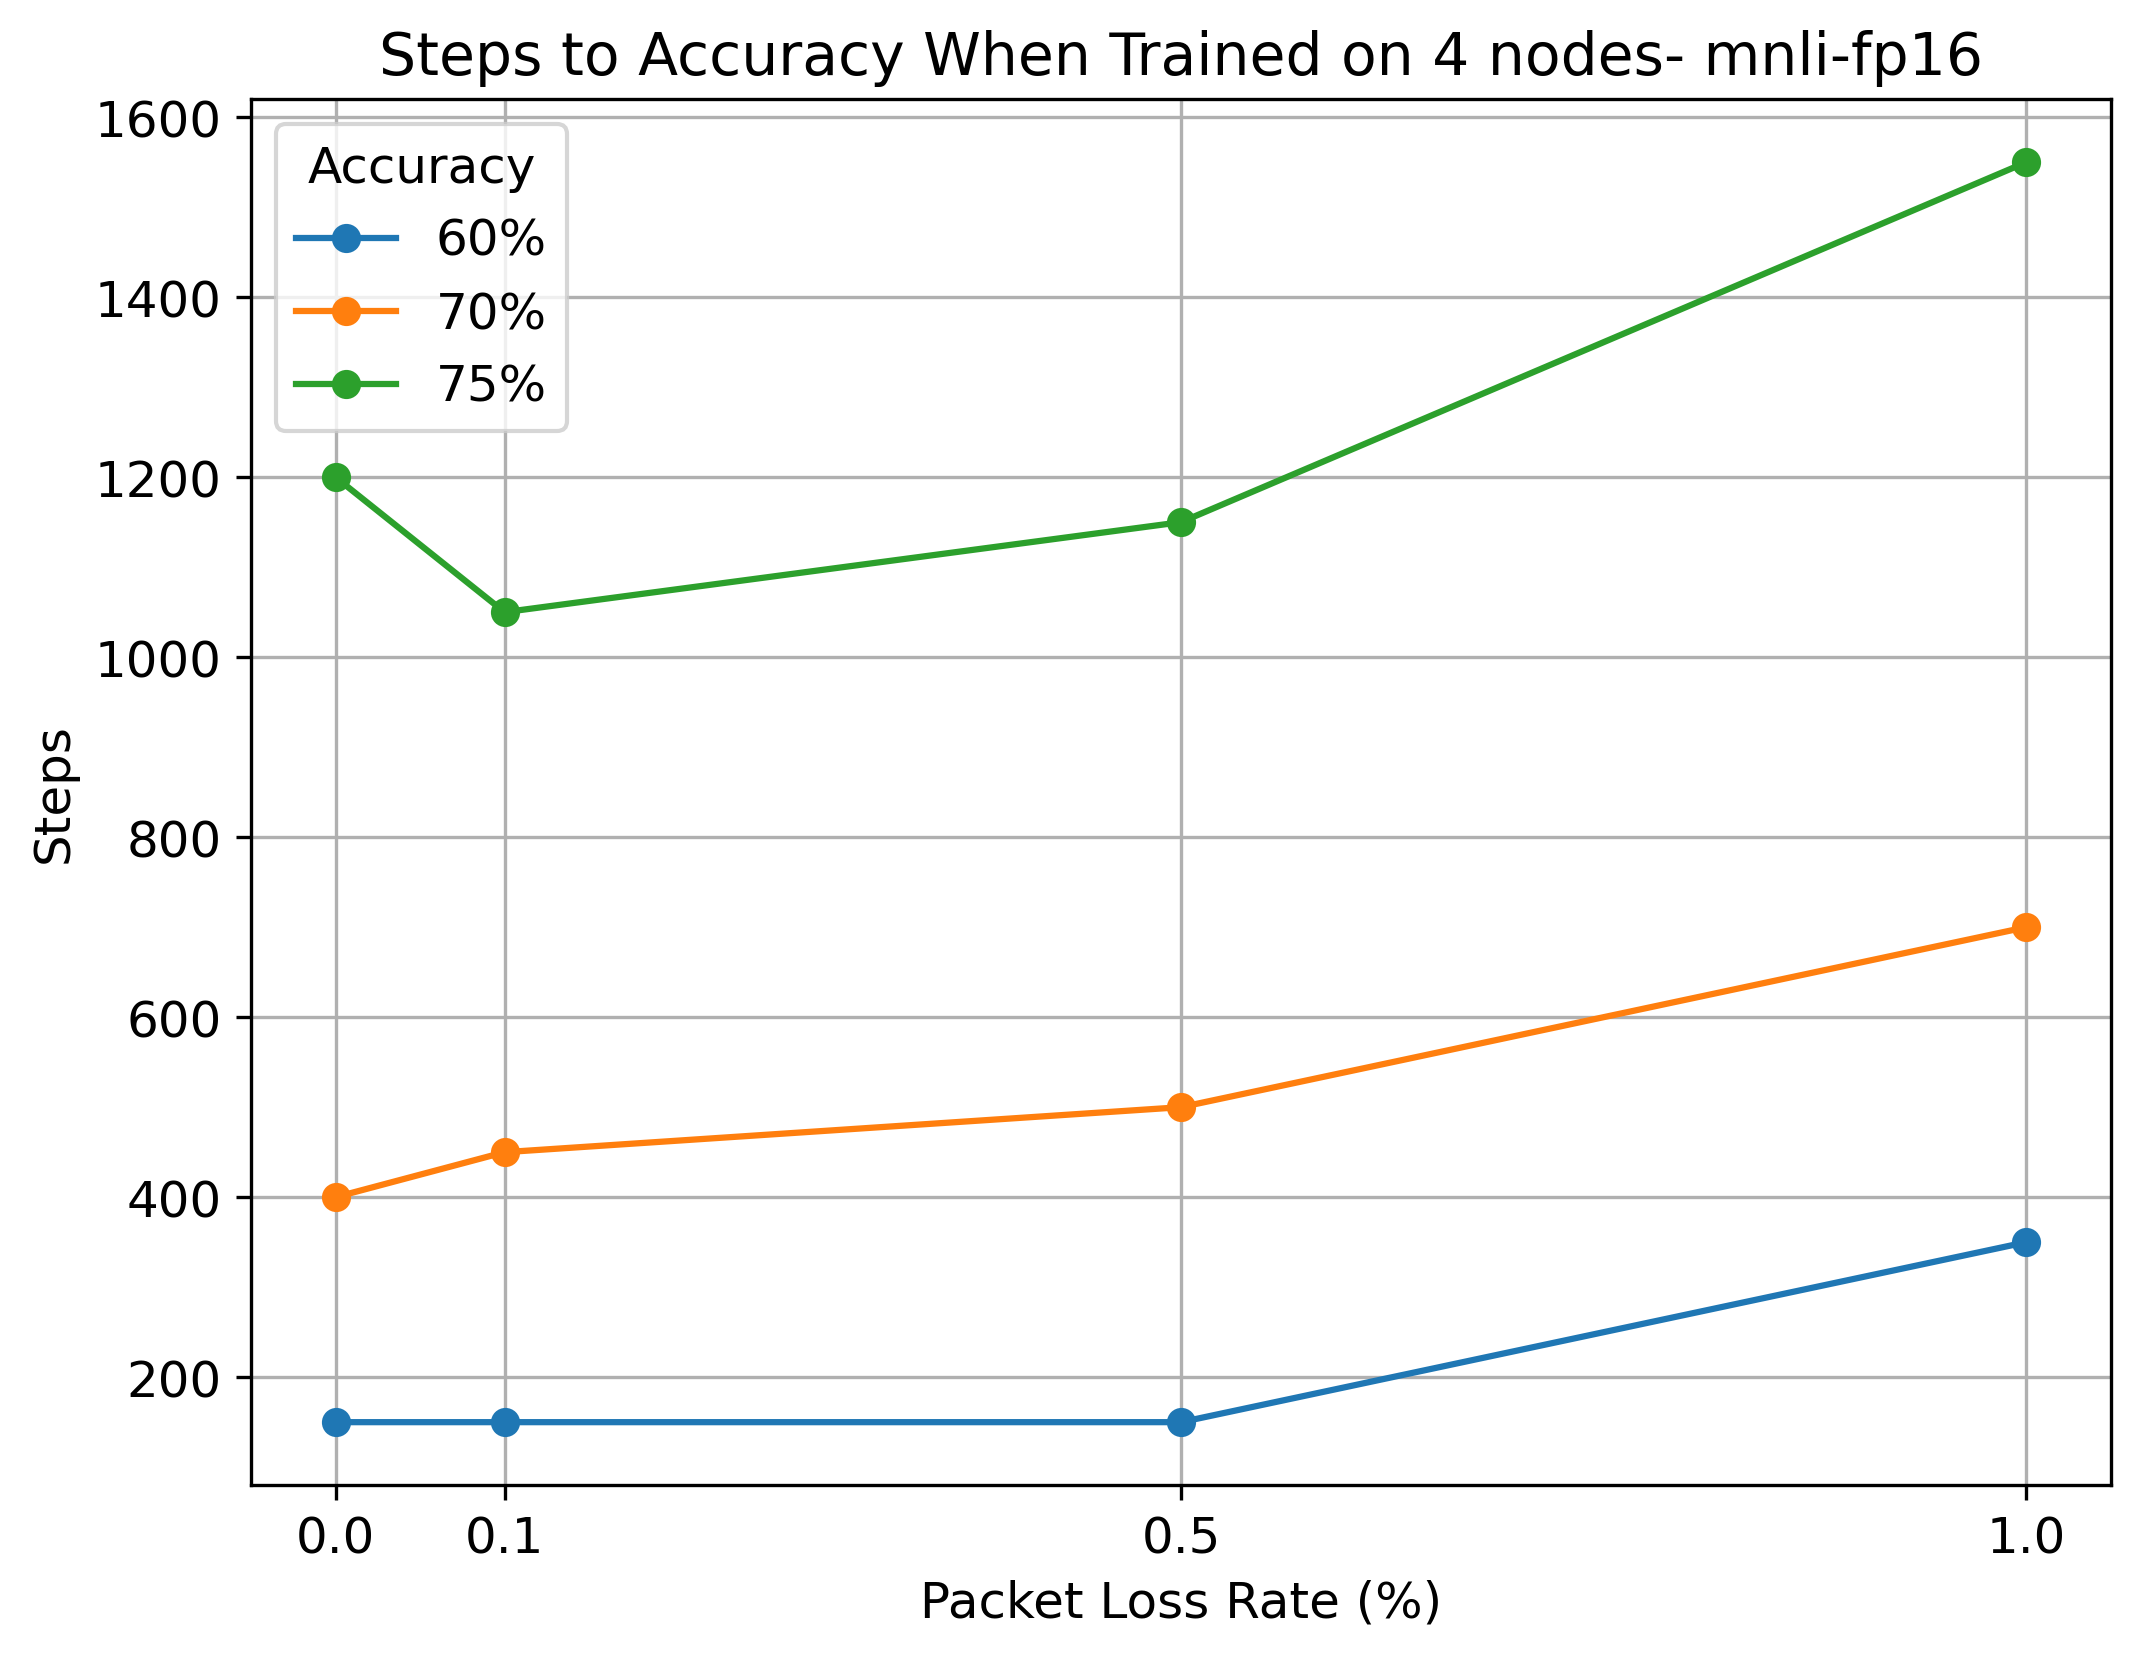
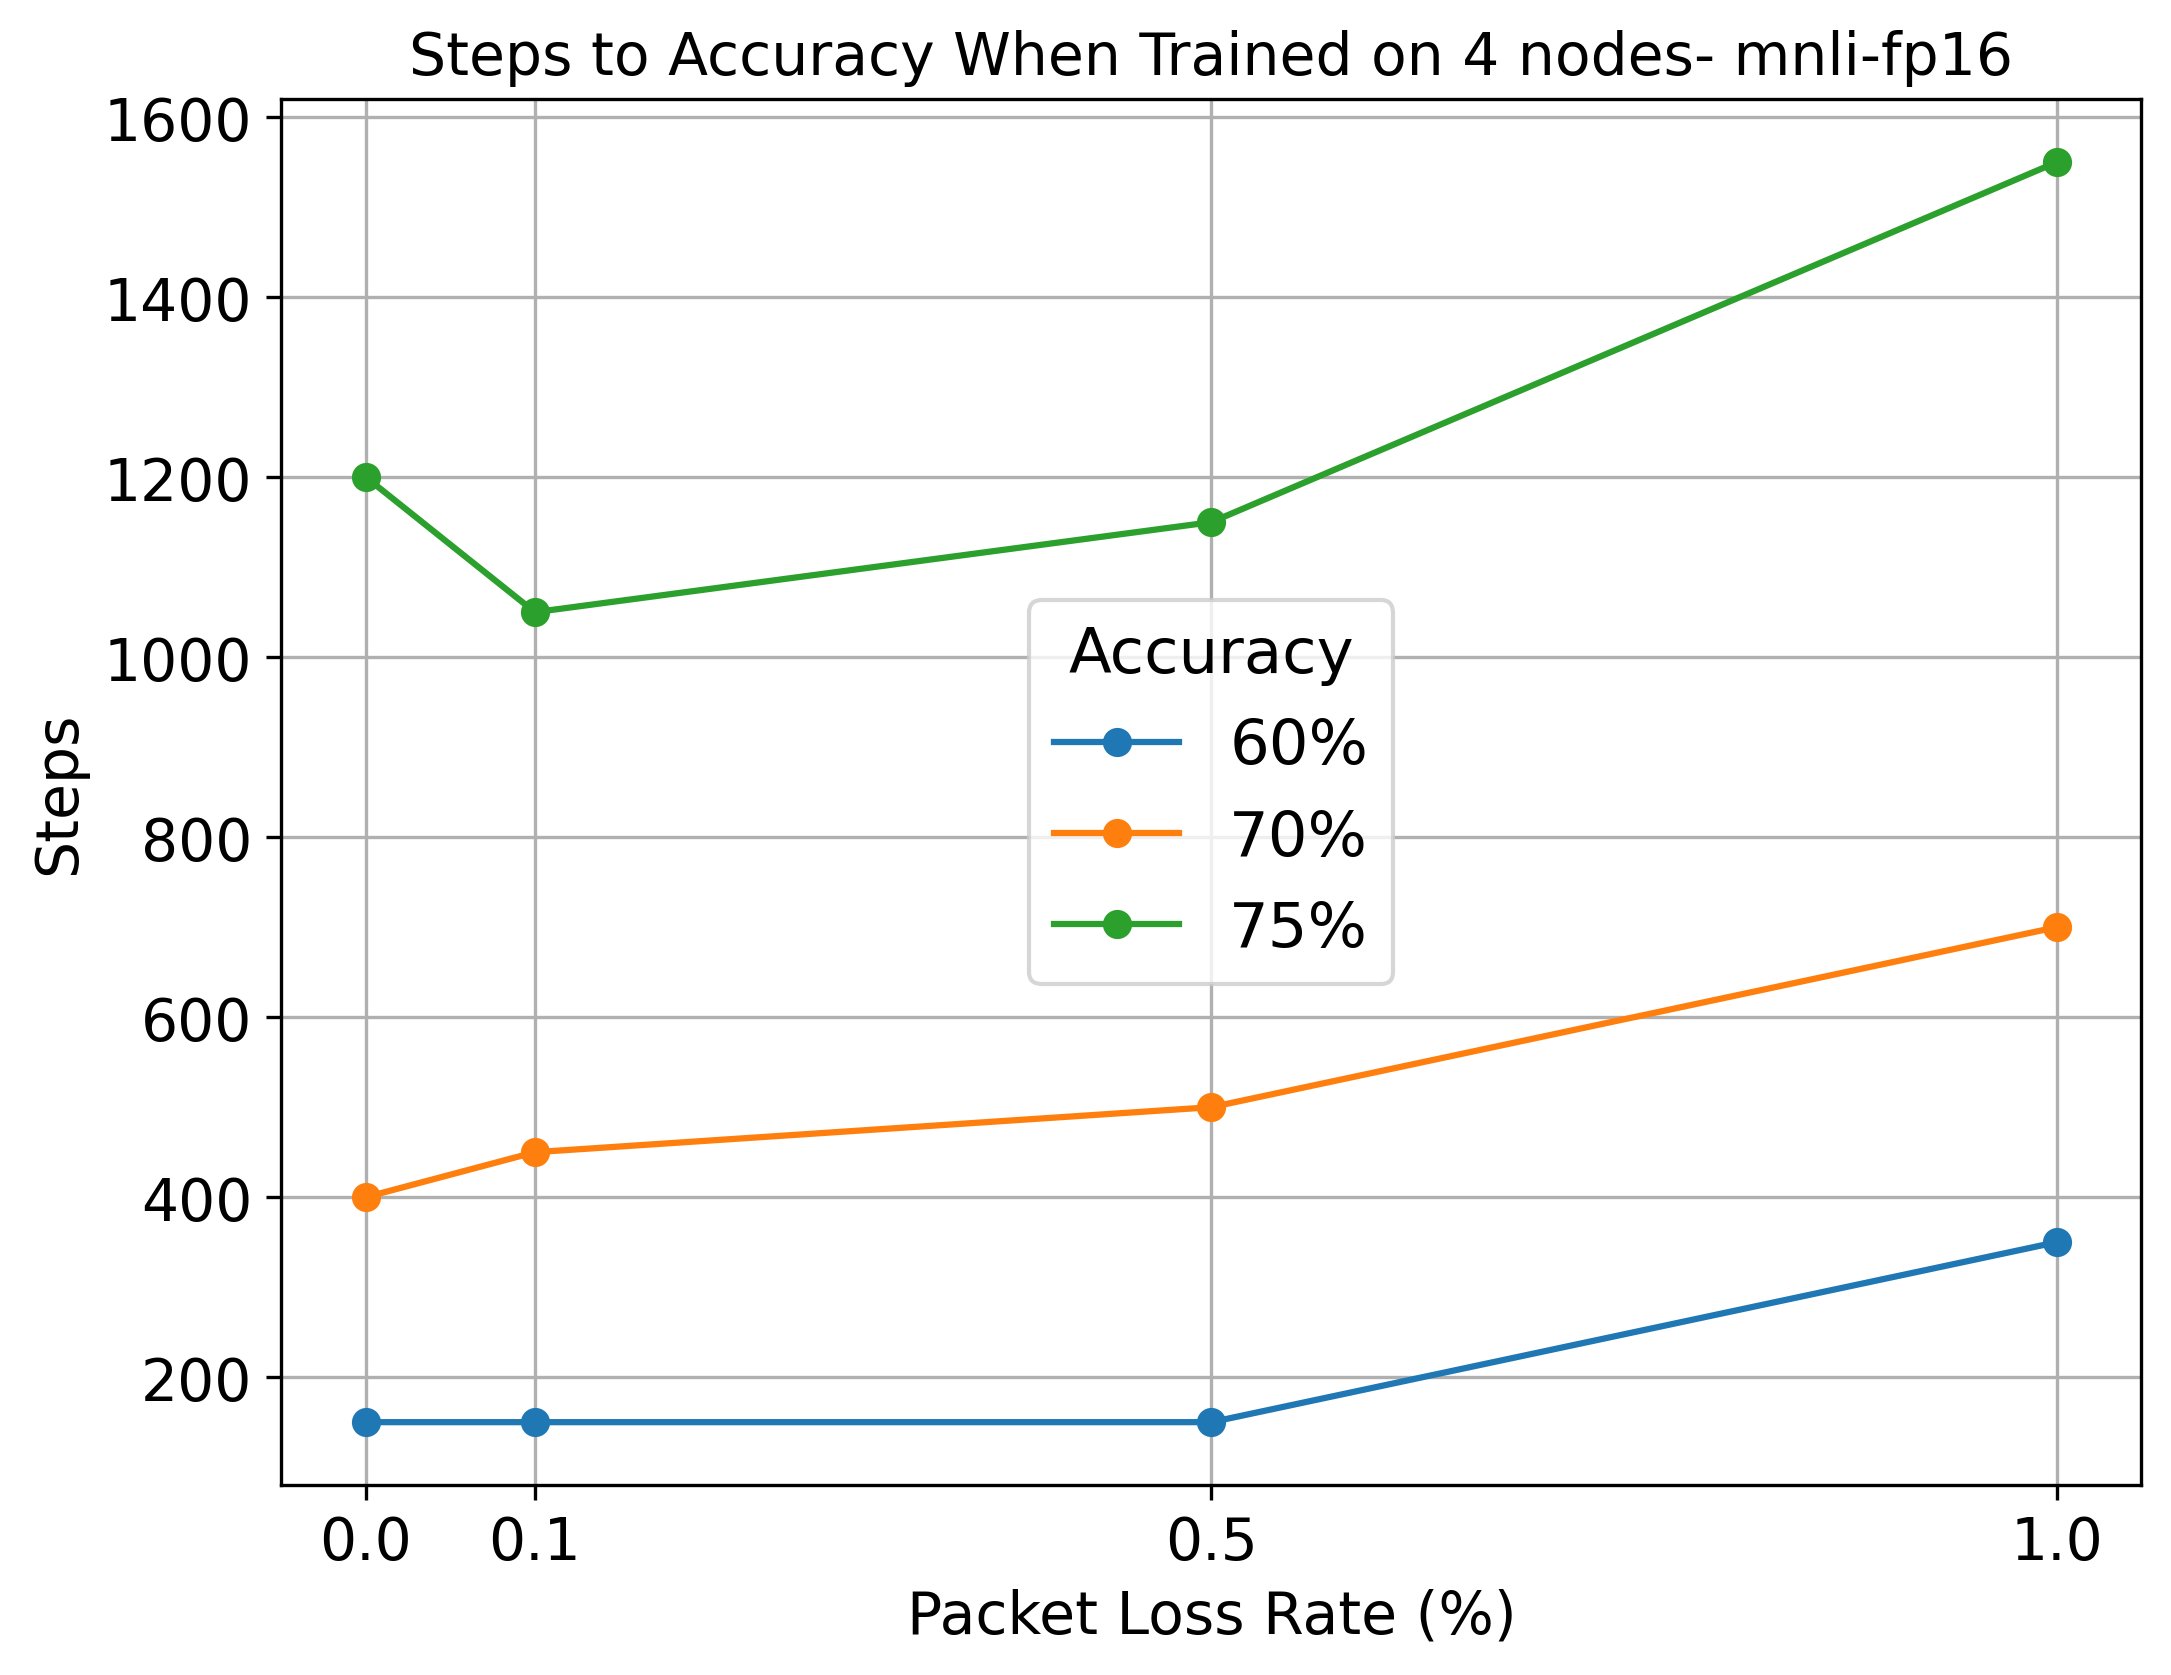
even bigger

diff --git a/plot_and_save_results.py b/plot_and_save_results.py
@@ -3,39 +3,39 @@ import matplotlib.pyplot as plt
 import os
 
 def plot_steps_vs_nodes(data, dataset_name, save_path, accuracy_threshold=0.75):
-    plt.rcParams.update({'font.size': 12})  # Set base font size
+    plt.rcParams.update({'font.size': 14})  # Set base font size
     fig, ax = plt.subplots(figsize=(8, 6), dpi=300)
     ax.set_title(f"Steps Required to Reach {accuracy_threshold*100}% Accuracy - {dataset_name}", fontsize=14)
-    ax.set_xlabel("Node Count", fontsize=12)
-    ax.set_ylabel("Steps to Accuracy", fontsize=12)
+    ax.set_xlabel("Node Count", fontsize=14)
+    ax.set_ylabel("Steps to Accuracy", fontsize=14)
     x = [2, 4, 6]
     ax.set_xticks(x)
-    ax.set_xticklabels(["2", "4", "6"], fontsize=12)
-    ax.tick_params(axis='both', which='major', labelsize=12)
+    ax.set_xticklabels(["2", "4", "6"], fontsize=14)
+    ax.tick_params(axis='both', which='major', labelsize=14)
     ax.plot(x, data["0"], label="0%", marker='o', color='blue')
     ax.plot(x, data["0.001"], label="0.1%", marker='o', color='orange')
     ax.plot(x, data["0.005"], label="0.5%", marker='o', color='green')
     ax.plot(x, data["0.01"], label="1.0%", marker='o', color='red')
-    ax.legend(title="Packet Loss Rate", title_fontsize=12, fontsize=12)
+    ax.legend(title="Packet Loss Rate", title_fontsize=15, fontsize=15)
     ax.grid()
     plt.savefig(save_path, bbox_inches='tight')
     plt.close()
 
 def plot_steps_vs_loss_rate(data, dataset_name, save_path):
-    plt.rcParams.update({'font.size': 12})  # Set base font size
+    plt.rcParams.update({'font.size': 14})  # Set base font size
     fig, ax = plt.subplots(figsize=(8, 6), dpi=300)
     ax.set_title(f"Steps to Accuracy When Trained on 4 nodes- {dataset_name}", fontsize=14)
-    ax.set_xlabel("Packet Loss Rate (%)", fontsize=12)
-    ax.set_ylabel("Steps", fontsize=12)
+    ax.set_xlabel("Packet Loss Rate (%)", fontsize=14)
+    ax.set_ylabel("Steps", fontsize=14)
     x = [0.0, 0.1, 0.5, 1.0]
     ax.set_xticks(x)
-    ax.set_xticklabels([str(i) for i in x], fontsize=12)
-    ax.tick_params(axis='both', which='major', labelsize=12)
+    ax.set_xticklabels([str(i) for i in x], fontsize=14)
+    ax.tick_params(axis='both', which='major', labelsize=14)
     accuracies = list(data.keys())
     for i in range(len(accuracies)):
         acc = accuracies[i]
         ax.plot(x, data[acc], label=acc, marker='o')
-    ax.legend(title="Accuracy", title_fontsize=12, fontsize=12)
+    ax.legend(title="Accuracy", title_fontsize=15, fontsize=15)
     ax.grid()
 
     plt.savefig(save_path, bbox_inches='tight')
